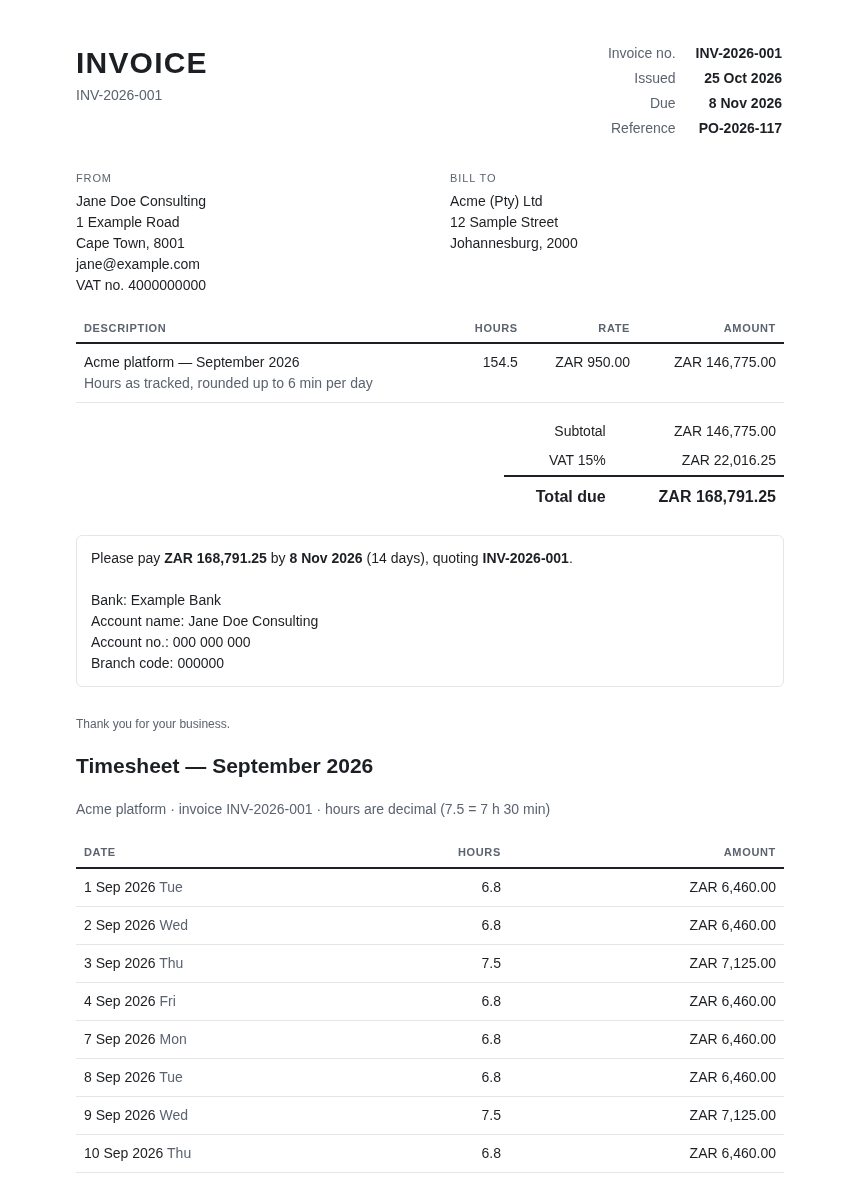
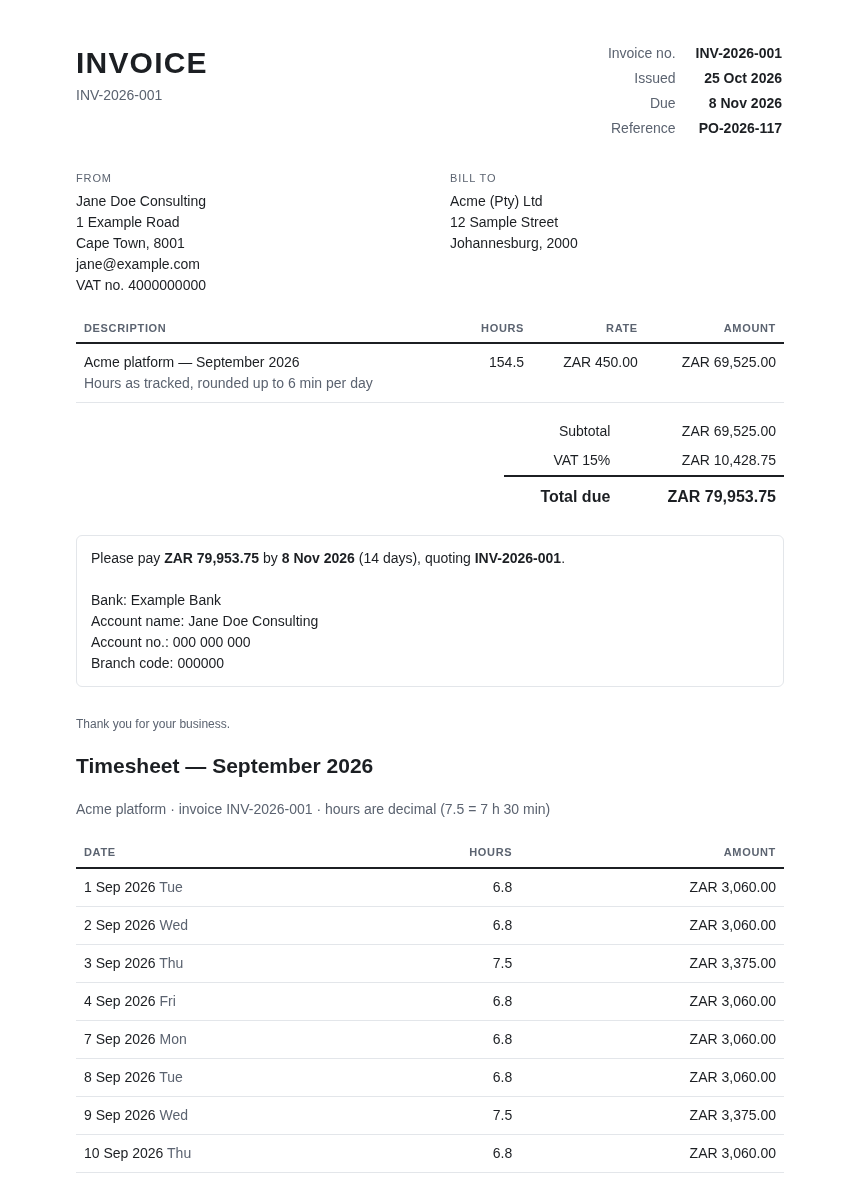
Use placeholders everywhere; guard against real identifiers
Tests, examples and help text use placeholder names, rates, emails and
home directories, and the license credits the GitHub handle. New security
tests allow only placeholder email domains and home directories in
tracked files. Bump actions/checkout and setup-python to v7 (Node 24),
and lower the demo rate used for the README images.

diff --git a/scripts/tests/test_changelog_security.py b/scripts/tests/test_changelog_security.py
@@ -22,6 +22,7 @@ import unittest
 from pathlib import Path
 
 sys.path.insert(0, str(Path(__file__).resolve().parents[2]))       # repo root: import scripts.changelog
+sys.path.insert(0, str(Path(__file__).resolve().parent))           # sibling test module, however the suite is run
 from scripts import changelog as cl  # noqa: E402
 from test_changelog import BODY, GOOD, make_repo, run  # noqa: E402
 
@@ -124,7 +125,7 @@ class SecretDetectionTests(unittest.TestCase):
             cl.add_section(GOOD, "0.5.0", body, "2026-11-01")
 
     def test_check_flags_secret_already_in_changelog(self):
-        text = GOOD.replace("- Renamed from tally.", "- Renamed from tally, see /home/alice/notes.")
+        text = GOOD.replace("- Renamed from tally.", "- Renamed from tally, see /home/bob/notes.")
         self.assertTrue(any("absolute home path" in e for e in cl.check(text)))
 
     def test_cli_add_refuses_secret_and_leaves_file(self):
@@ -337,6 +338,31 @@ class TarballContentTests(unittest.TestCase):
             hits = [n for n in cl.find_secrets(text) if n not in ("password assignment", "absolute home path")]
             with self.subTest(file=f):
                 self.assertEqual(hits, [])
+
+    # Placeholders only: a real address or user name in a public repo identifies the author or a client.
+    ALLOWED_EMAIL = re.compile(r"@(example\.(com|org|net)|users\.noreply\.github\.com|anthropic\.com)$")
+    ALLOWED_HOME = {"alice", "bob", "<name>", "<user>", "you", "user"}
+
+    def tracked_text_files(self):
+        files = subprocess.run(["git", "ls-files"], cwd=REPO, capture_output=True, text=True, check=True).stdout.split()
+        for f in files:
+            if (REPO / f).is_file() and not f.endswith((".png", ".db")):
+                try:
+                    yield f, (REPO / f).read_text()
+                except UnicodeDecodeError:
+                    continue
+
+    def test_only_placeholder_email_addresses(self):
+        for f, text in self.tracked_text_files():
+            for addr in re.findall(r"[A-Za-z0-9._%+-]+@[A-Za-z0-9-]+(?:\.[A-Za-z0-9-]+)+", text):
+                with self.subTest(file=f, addr=addr):
+                    self.assertRegex(addr, self.ALLOWED_EMAIL, "use a placeholder like jane@example.com")
+
+    def test_only_placeholder_home_directories(self):
+        for f, text in self.tracked_text_files():
+            for user in re.findall(r"/(?:home|Users)/([A-Za-z0-9._<>-]+)", text):
+                with self.subTest(file=f, user=user):
+                    self.assertIn(user, self.ALLOWED_HOME, "use ~/… or a placeholder user like /home/alice")
 
 
 if __name__ == "__main__":

diff --git a/uurtjie/cli.py b/uurtjie/cli.py
@@ -1023,7 +1023,7 @@ def main(argv=None):
     s = sub.add_parser("config", help="show or change settings (rate, invoice details, ...) without hand-editing")
     csub = s.add_subparsers(dest="config_cmd", required=True)
     c = csub.add_parser("show", help="effective settings and what's still missing for invoicing")
-    c = csub.add_parser("set", help="set one value, e.g.  config set rate 650   or   config set invoice.from.bank 'Bank: X' 'Acc: 1'")
+    c = csub.add_parser("set", help="set one value, e.g.  config set rate 950   or   config set invoice.from.bank 'Bank: X' 'Acc: 1'")
     c.add_argument("key", help="rate, currency, client, client_address, invoice.vat_rate, invoice.from.name, ...")
     c.add_argument("value", nargs="+", help="a value (lists like address/bank take one argument per line)")
     c.add_argument("--project", help="for per-project settings (default: your default project)")

diff --git a/scripts/screenshots.py b/scripts/screenshots.py
@@ -103,7 +103,7 @@ footer = "Thank you for your business."
 id = "acme"
 name = "Acme platform"
 client = "Acme (Pty) Ltd"
-rate = 950
+rate = 450
 currency = "ZAR"
 client_address = ["12 Sample Street", "Johannesburg, 2000"]
 client_reference = "PO-2026-117"

diff --git a/.claude/skills/release-notes/SKILL.md b/.claude/skills/release-notes/SKILL.md
@@ -64,7 +64,7 @@ Rules (`changelog.py add` enforces the ones marked ✱):
 - One bullet per user-visible change. Merge commits that belong to one change. Leave out refactors, test-only
   and review-fixup commits unless they change behaviour.
 - Say what the user can now do or will notice, in plain words, present tense. Name commands, settings and keys
-  in backticks exactly as typed (`uurtjie config set rate 650`, `show_money_in_bar`).
+  in backticks exactly as typed (`uurtjie config set rate 950`, `show_money_in_bar`).
 - Anything the user must do after upgrading goes in the bullet as **Action:**.
 - Security fixes go under `### Security`: state the impact and who is affected, without a working exploit.
 - `### Packaging`: installer, release, CI and dependency changes that matter to someone installing.

diff --git a/README.md b/README.md
@@ -163,7 +163,7 @@ Electron app), not only browsers.
 ### The bar widget
 
 The bar shows today's hours, the project being tracked, and money earned so far this month, for example
-` 4h24 acme · R117,135`. It is dimmed while you're idle.
+` 4h24 acme · R55,620`. It is dimmed while you're idle.
 
 | Click | Does |
 |---|---|
